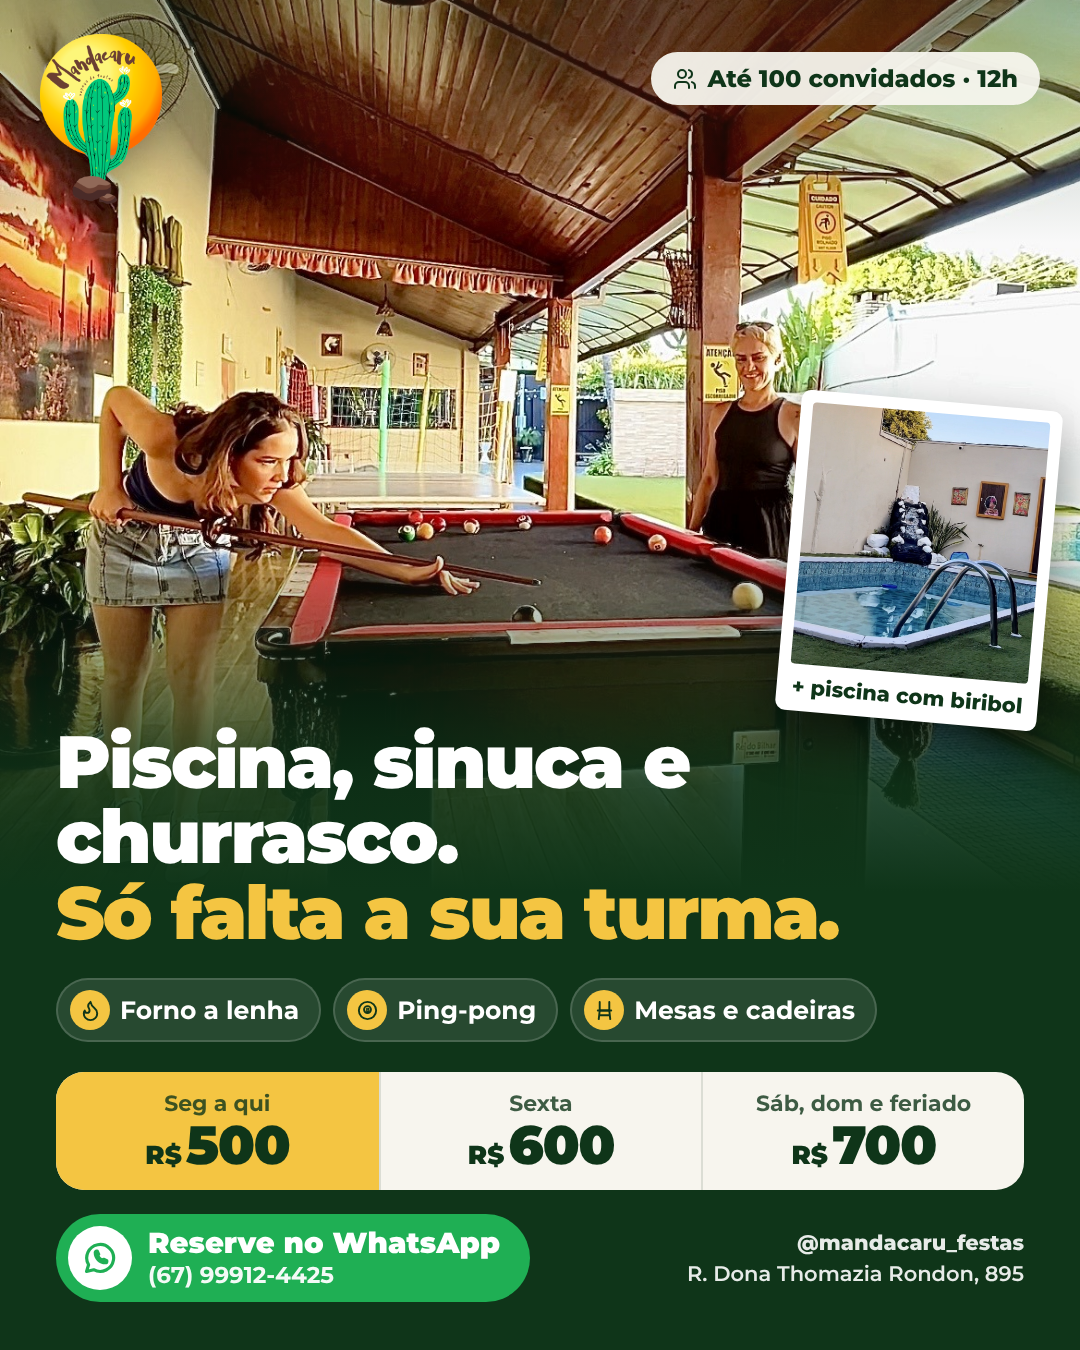
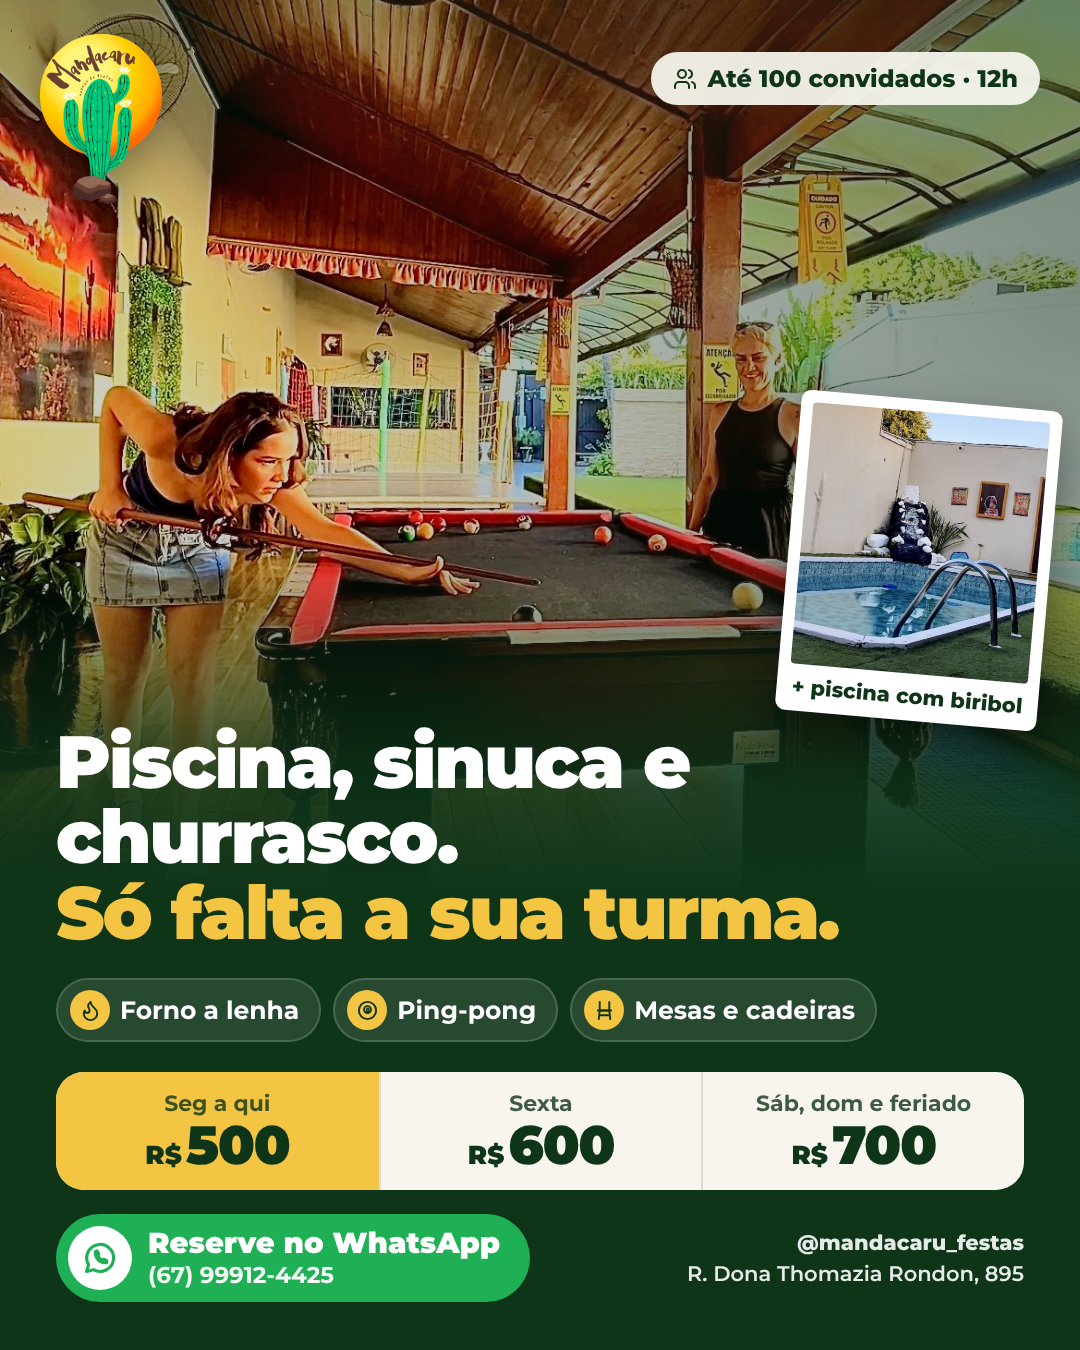
Mandacaru: tira gancho de R$5/convidado e trata a foto do feed
Claude-Session: https://claude.ai/code/session_019YGJBkyrNnGc5uxfdnYiJp

Changed region(s): [[0.0, 0.0, 1.0, 0.4978], [0.4583, 0.4044, 0.7333, 0.4978], [0.1528, 0.3733, 0.2139, 0.4044]]

diff --git a/mandacaru/src/feed.html b/mandacaru/src/feed.html
@@ -5,7 +5,8 @@
   .canvas { width: 1080px; height: 1350px; background: var(--green-900); }
   .bg { left: 0; top: -520px; width: 1080px; }
   .shade { position: absolute; inset: 0; background:
-    linear-gradient(180deg, rgba(15,53,25,.35) 0%, rgba(15,53,25,0) 18%, rgba(15,53,25,0) 40%, rgba(15,53,25,.88) 58%, var(--green-900) 66%); }
+    linear-gradient(180deg, rgba(15,53,25,.35) 0%, rgba(15,53,25,0) 18%, rgba(15,53,25,0) 40%, rgba(15,53,25,.88) 58%, var(--green-900) 66%),
+    radial-gradient(70% 45% at 100% 22%, rgba(15,53,25,.42) 0%, rgba(15,53,25,0) 100%); }
 
   .logo { position: absolute; top: 34px; left: 40px; height: 170px; filter: drop-shadow(0 10px 20px rgba(0,0,0,.35)); }
   .tag { position: absolute; top: 52px; right: 40px; background: rgba(247,245,238,.94); color: var(--green-900);
@@ -42,7 +43,7 @@
 </style></head>
 <body>
 <div class="canvas" id="art">
-  <img class="bg" src="assets/sinuca.jpg" alt="">
+  <img class="bg" src="assets/sinuca-feed.jpg" alt="">
   <div class="shade"></div>
   <img class="logo" src="assets/logo.png" alt="Mandacaru">
   <div class="tag"><i data-ico="users"></i>Até 100 convidados · 12h</div>

diff --git a/mandacaru/src/story.html b/mandacaru/src/story.html
@@ -66,7 +66,7 @@
     <div class="price">
       <div class="from">Locação a partir de</div>
       <div class="val"><small>R$</small>500</div>
-      <div class="per">Dá <b>R$ 5 por convidado*</b></div>
+      <div class="per">de <b>segunda a quinta</b></div>
       <div class="when">Sexta R$ 600 · Sáb, dom<br>e feriados R$ 700</div>
     </div>
     <div class="feats">
@@ -87,7 +87,7 @@
     <div class="l"><i data-ico="insta"></i>@mandacaru_festas</div>
     <div class="l"><i data-ico="pin"></i>Rua Dona Thomazia Rondon, 895 · Campo Grande</div>
   </div>
-  <div class="note">*Segunda a quinta, com 100 convidados. Período de 12 horas.</div>
+  <div class="note">Horários flexíveis · Visitas em horário comercial</div>
 </div>
 <script>
   const v = new URLSearchParams(location.search).get('v') || 'piscina';

diff --git a/mandacaru/LEGENDAS.md b/mandacaru/LEGENDAS.md
@@ -34,7 +34,7 @@ No Espaço Mandacaru você tem 12 horas de festa para até 100 convidados:
 #campogrande #campograndems #espacodefestas #festacampogrande #aniversariocg #confraternizacao #churrascocg
 
 **Opção 2 (gancho de preço)**
-Festa pra 100 pessoas com piscina por R$ 5 por convidado? Aqui dá 🌵 De segunda a quinta, a locação de 12 horas sai R$ 500. Comenta QUERO que a gente te manda as datas livres!
+Festa com piscina pra até 100 pessoas a partir de R$ 500? Aqui tem 🌵 De segunda a quinta, a locação de 12 horas sai R$ 500. Comenta QUERO que a gente te manda as datas livres!
 
 **Opção 3 (fim de ano)**
 A confra da firma ou da família já tem lugar? 🎄 Piscina, churrasqueira, forno a lenha, sinuca e 12 horas de festa. Dezembro está enchendo, então garanta sua data no WhatsApp: (67) 99912-4425.
